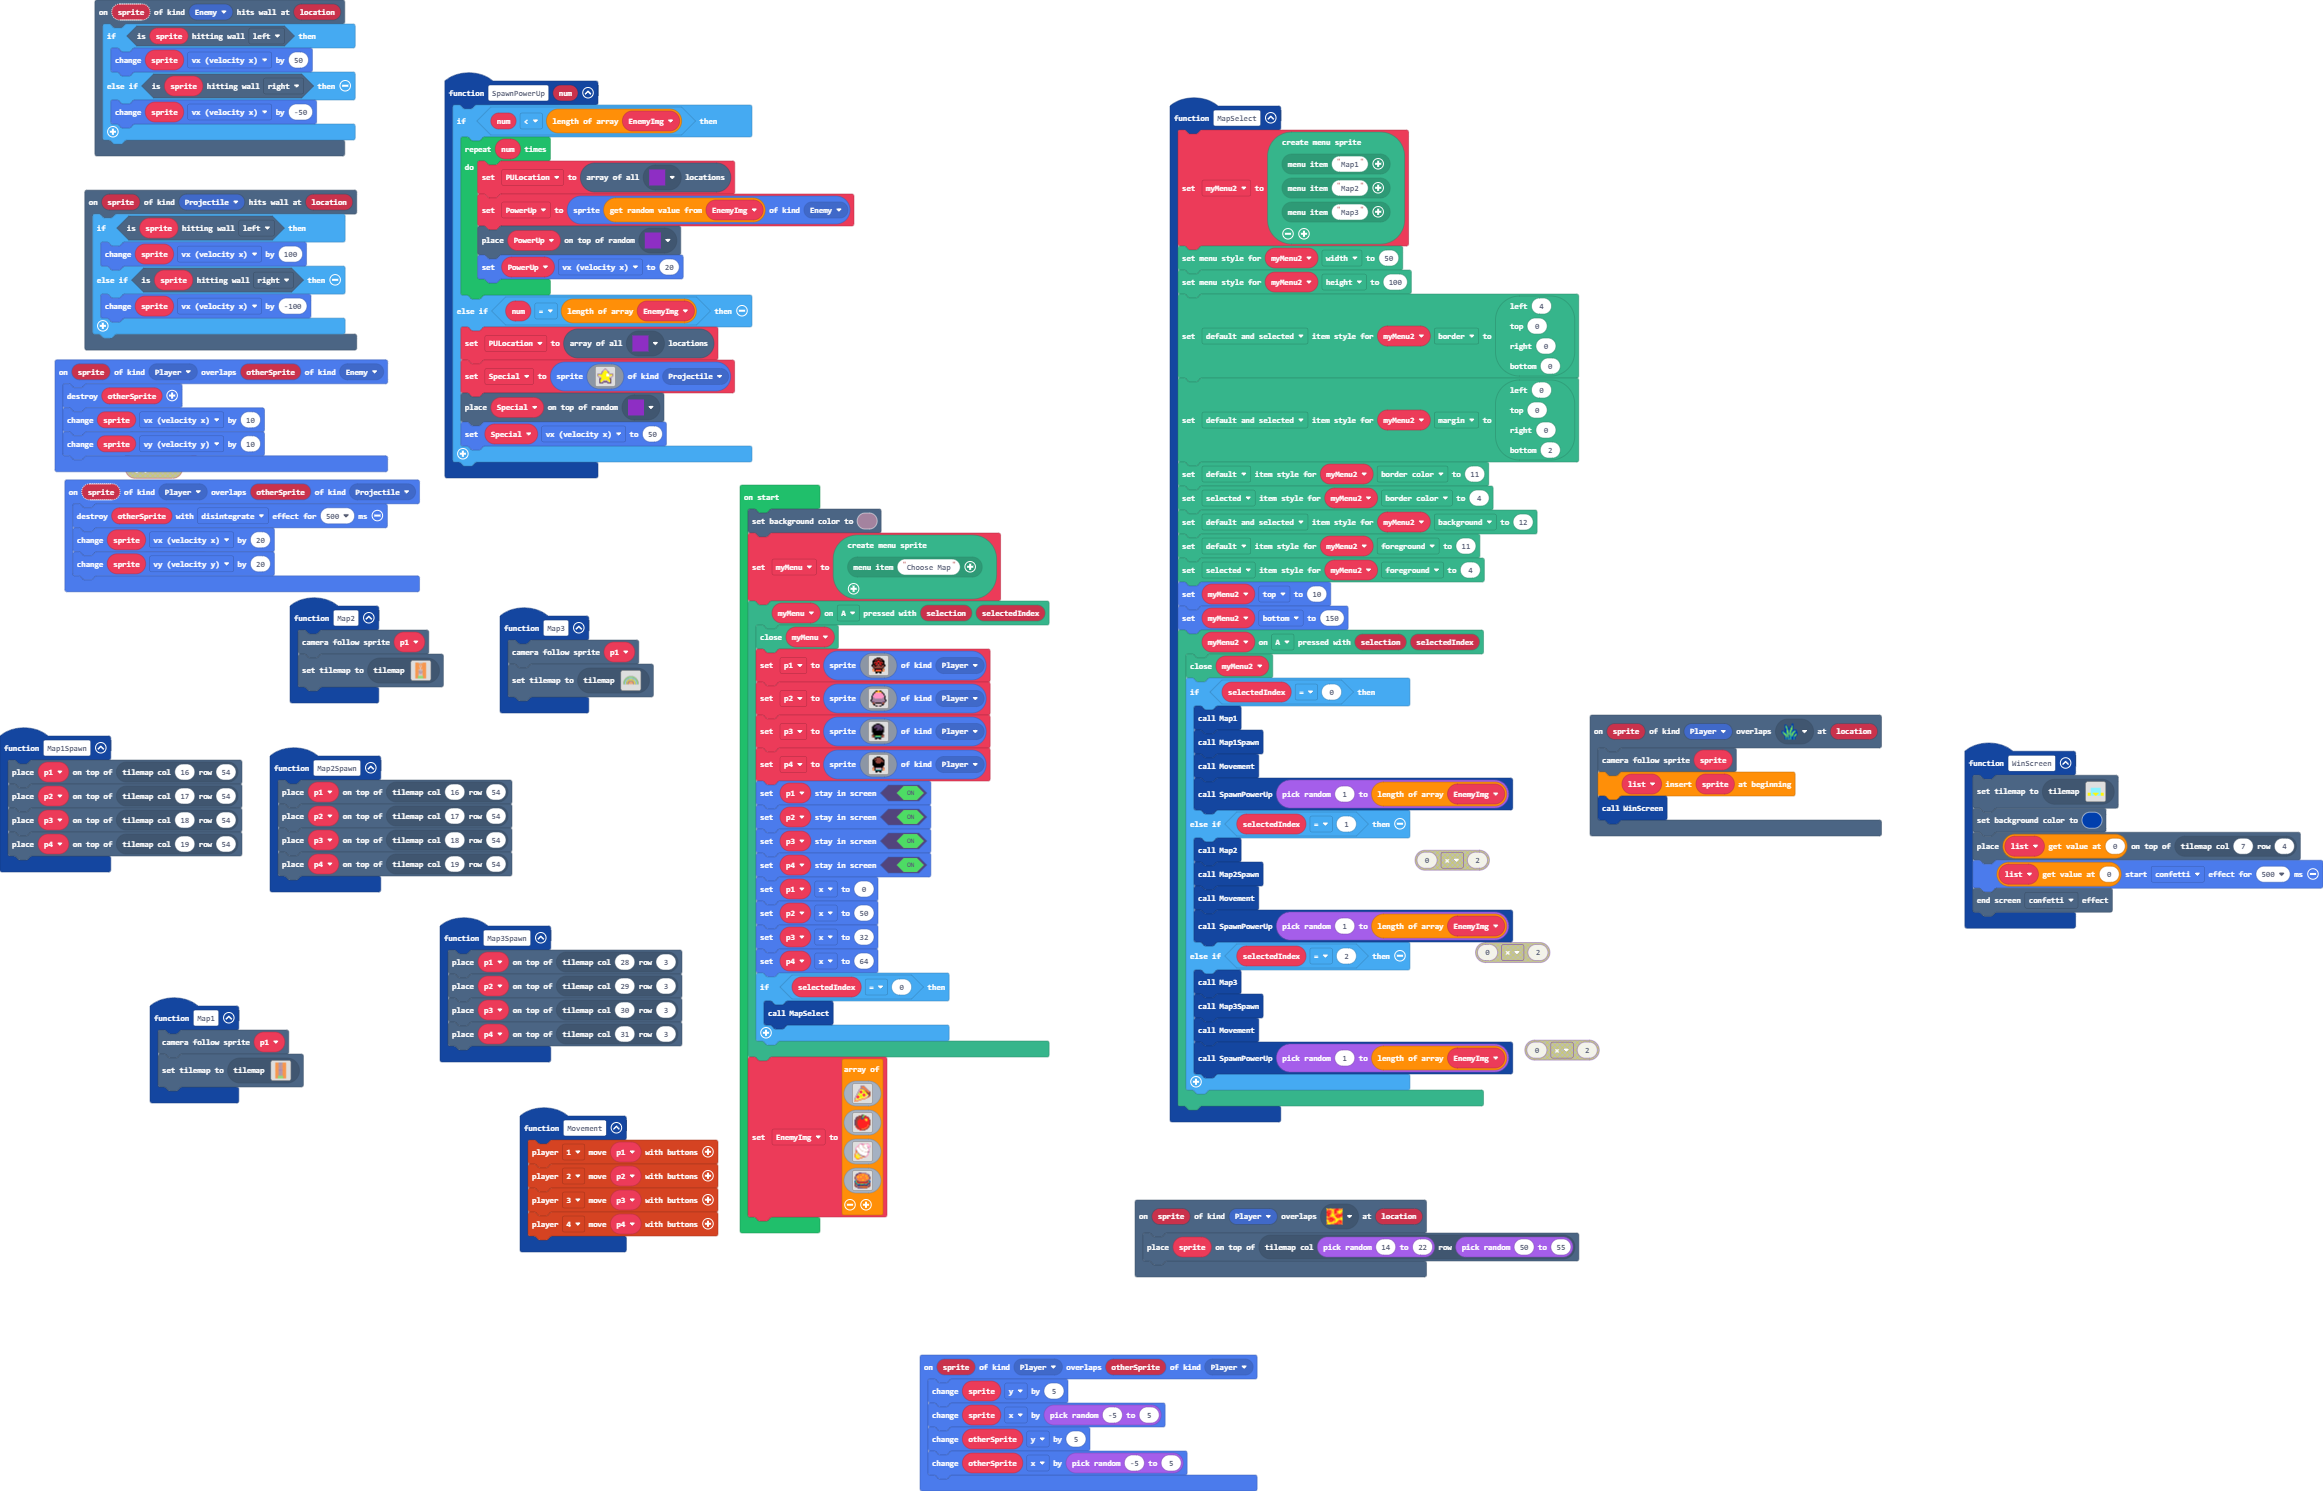
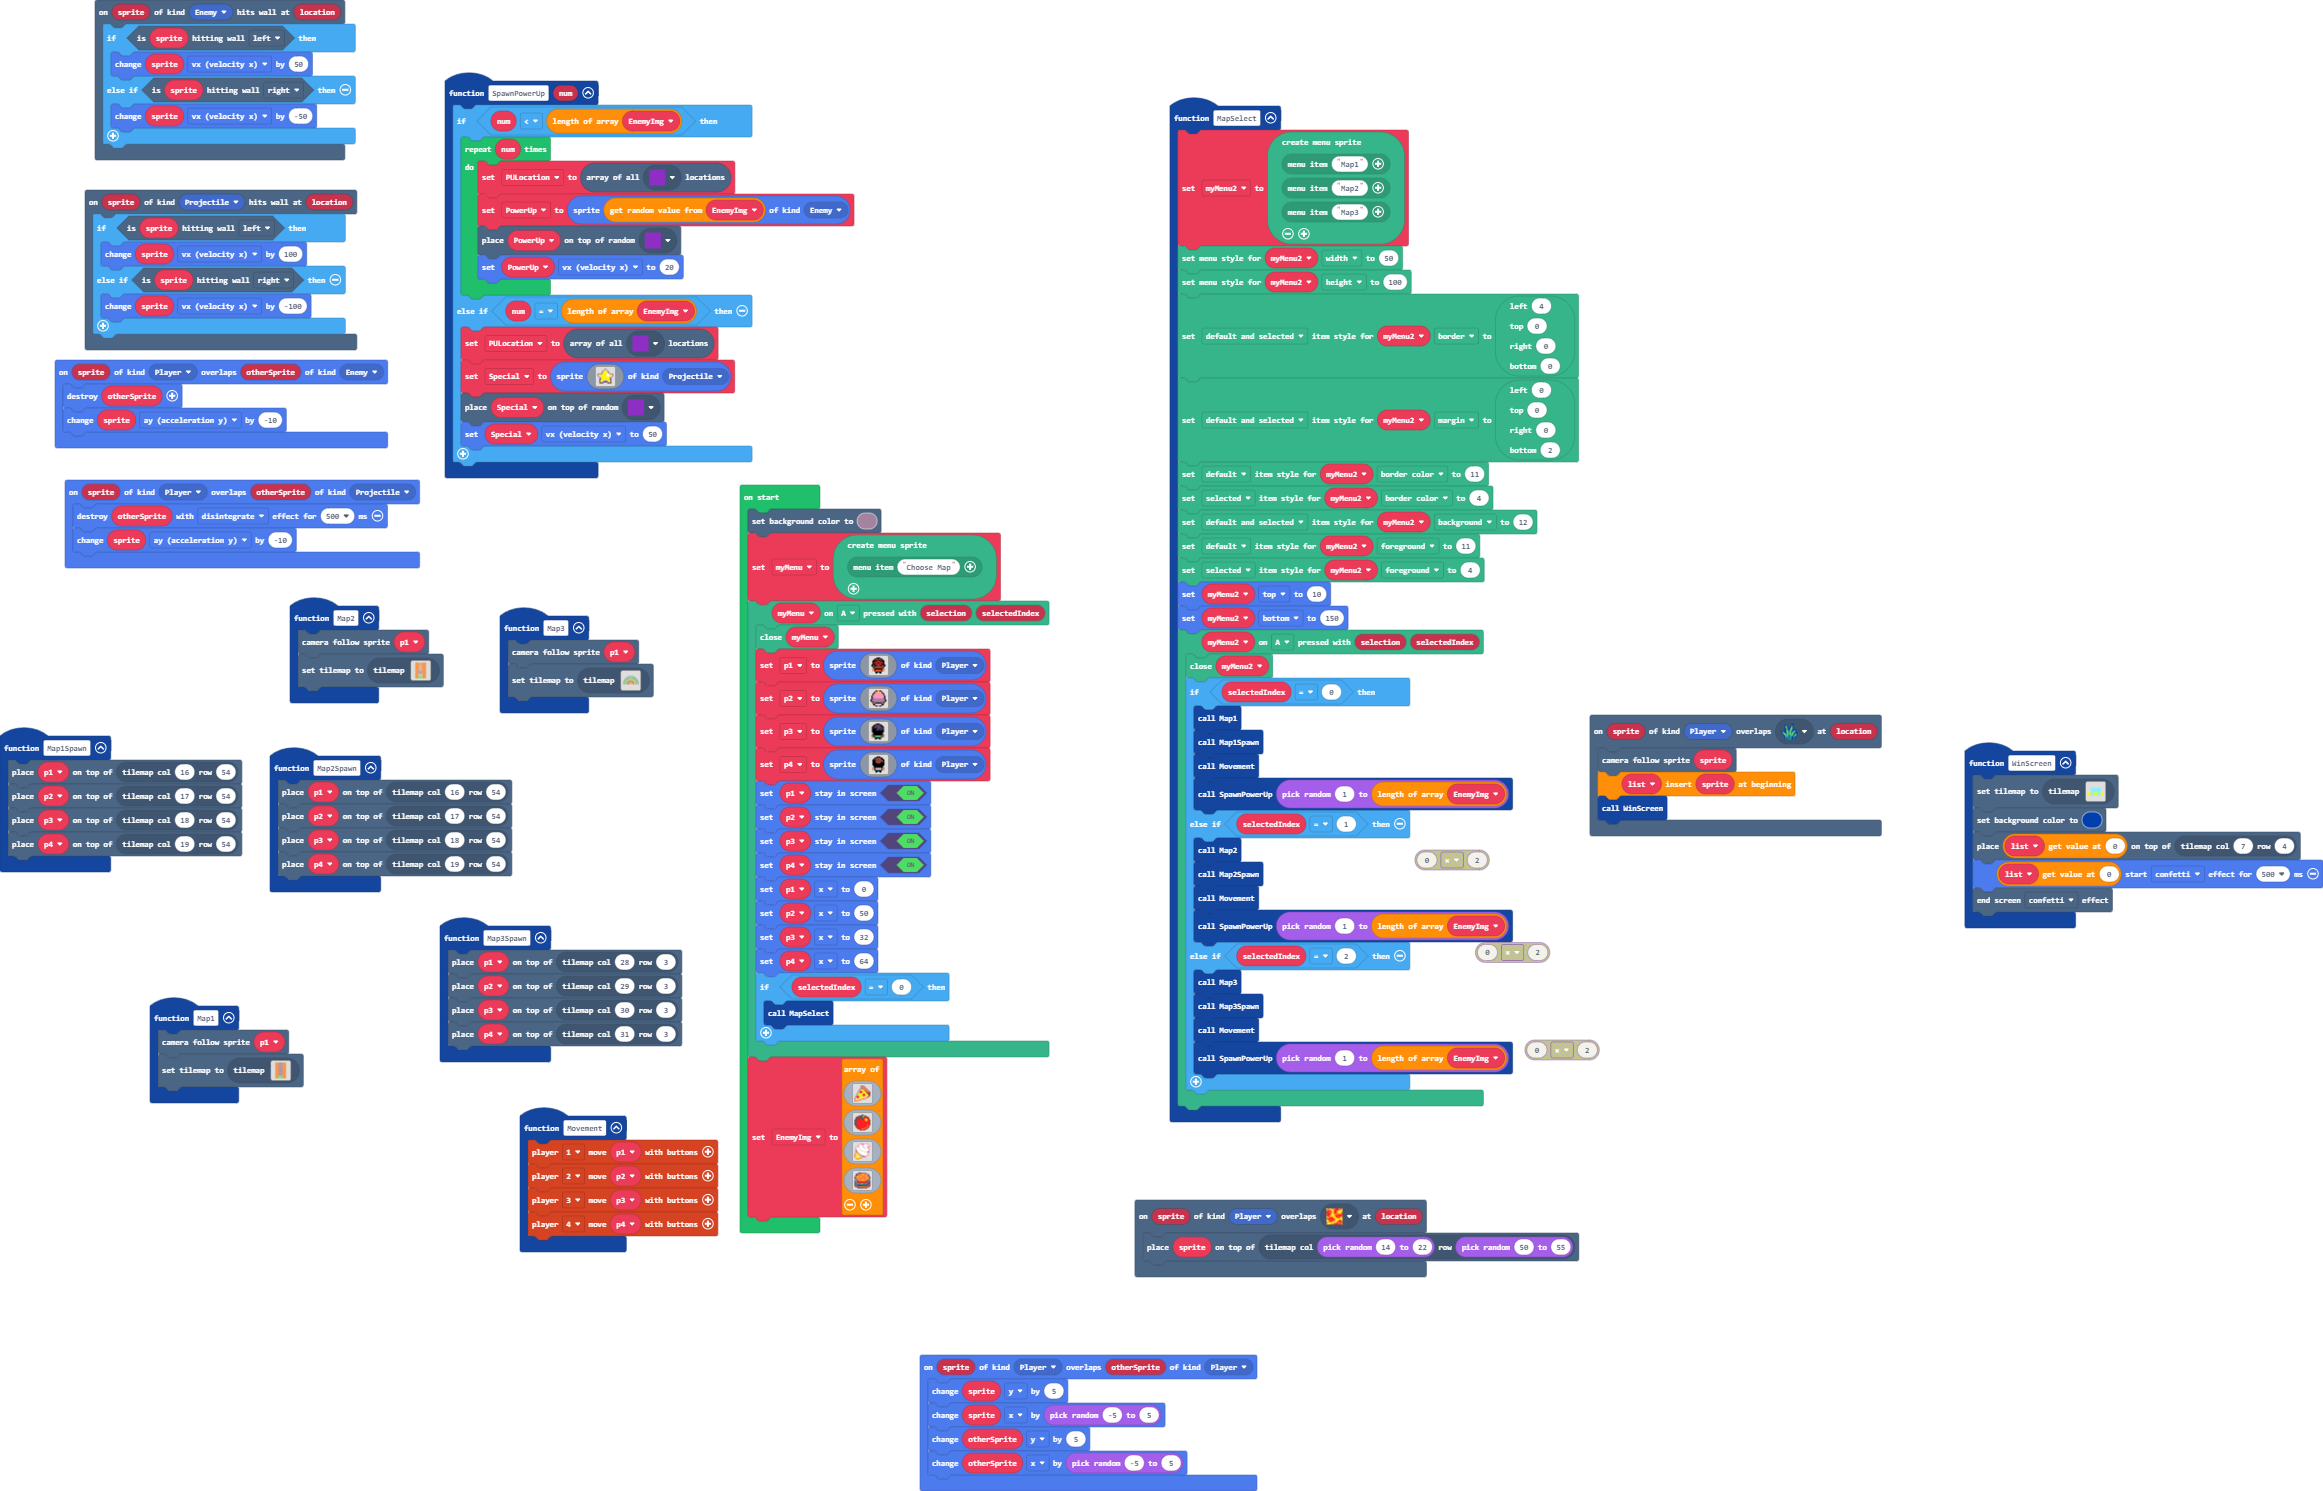
Update main.blocks, main.ts

Changed region(s): [[0.031, 0.2468, 0.186, 0.4011], [0.031, 0.0, 0.155, 0.1234]]

diff --git a/main.ts b/main.ts
@@ -71,8 +71,7 @@ scene.onHitWall(SpriteKind.Enemy, function (sprite, location) {
 })
 sprites.onOverlap(SpriteKind.Player, SpriteKind.Projectile, function (sprite, otherSprite) {
     sprites.destroy(otherSprite, effects.disintegrate, 500)
-    sprite.vx += 20
-    sprite.vy += 20
+    sprite.ay += -10
 })
 function Map2 () {
     scene.cameraFollowSprite(p1)
@@ -155,8 +154,7 @@ function SpawnPowerUp (num: number) {
 }
 sprites.onOverlap(SpriteKind.Player, SpriteKind.Enemy, function (sprite, otherSprite) {
     sprites.destroy(otherSprite)
-    sprite.vx += 10
-    sprite.vy += 10
+    sprite.ay += -10
 })
 let Special: Sprite = null
 let PowerUp: Sprite = null
